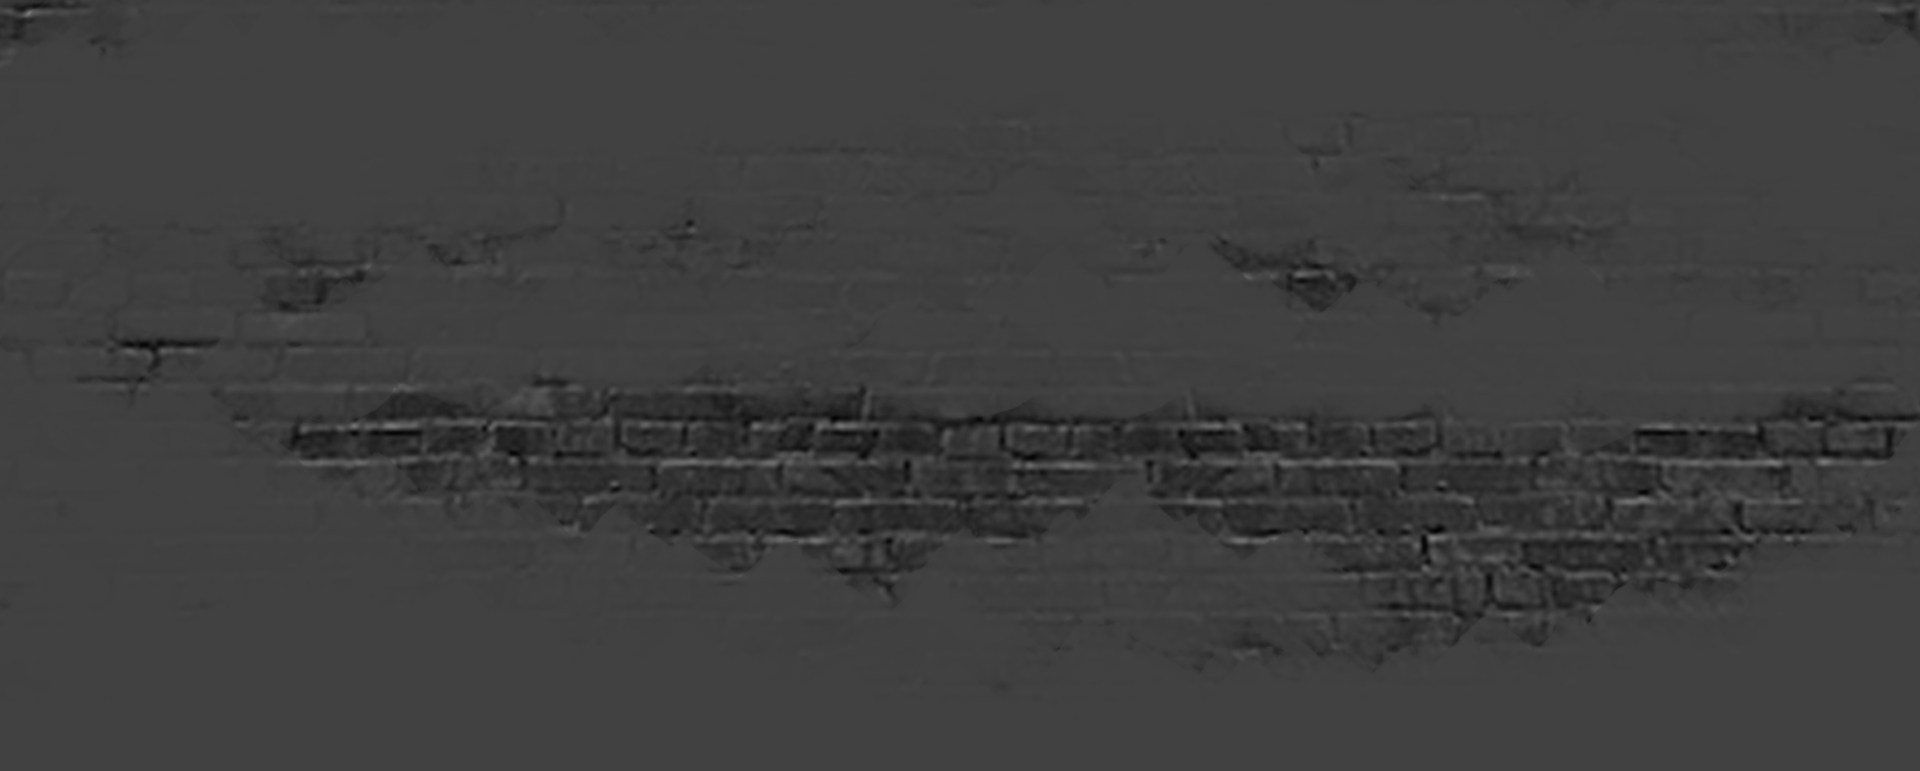
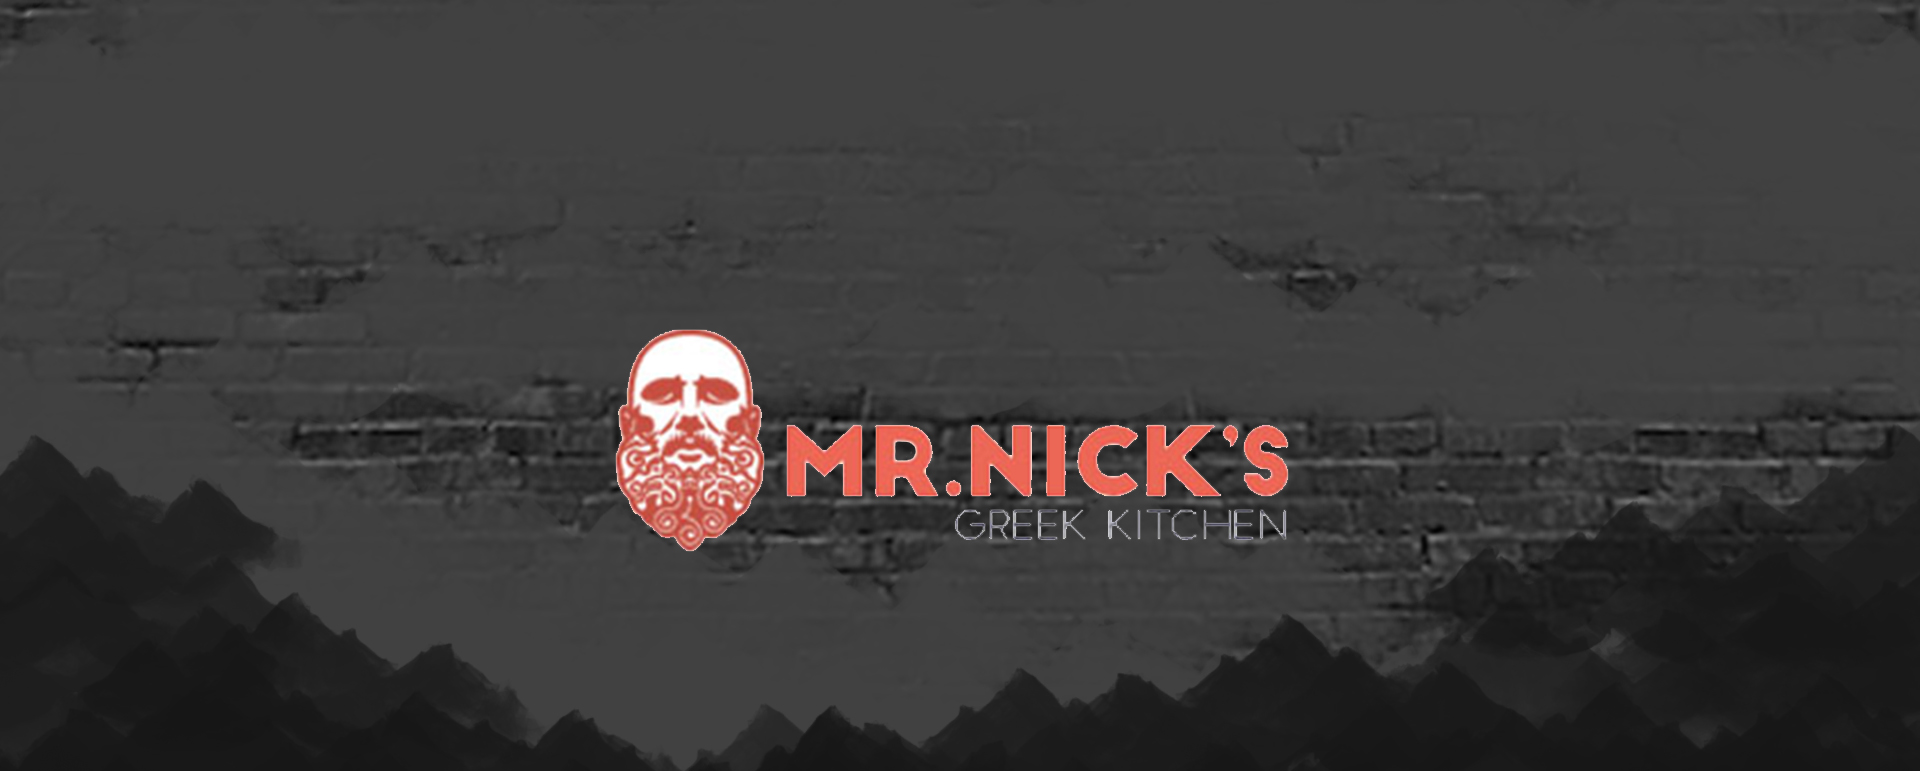
colorplay

Changed region(s): [[0.0, 0.5603, 1.0, 1.0], [0.3125, 0.4047, 0.6875, 0.716]]

diff --git a/css/style.css b/css/style.css
@@ -178,7 +178,7 @@ a:focus, .btn:focus, .btn:active:focus, .btn.active:focus, .btn.focus, .btn:acti
 	-o-background-size: cover;
 }
 .intro .overlay {
-	background: rgba(0,0,0,0.4);
+	/*background: rgba(0,0,0,0.4); */
 }
 .intro h1 {
 	font-family: 'Rochester', cursive;
